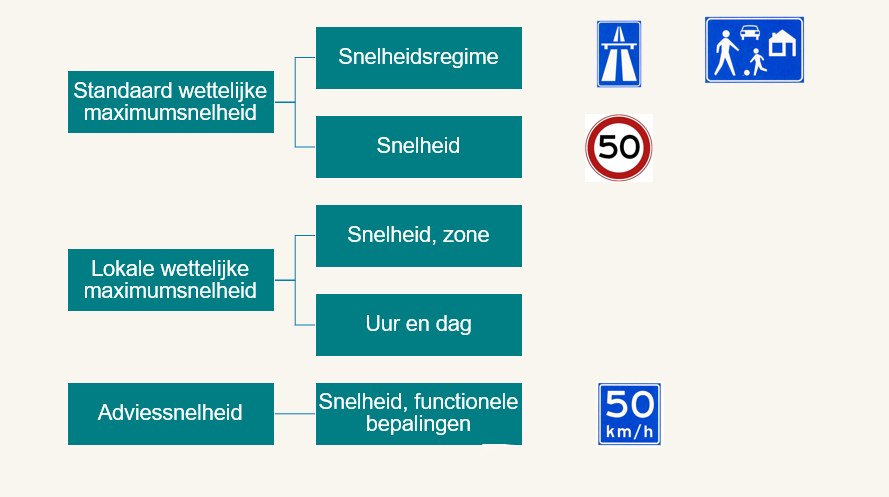
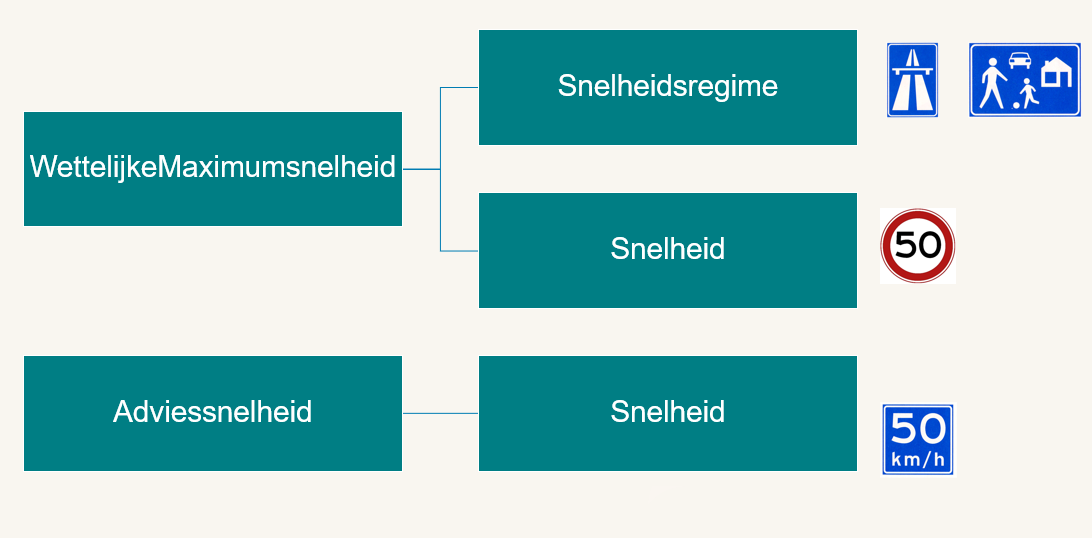
wip documentation

diff --git a/docs/howtodatamanagement/hoofdstukken/3.md b/docs/howtodatamanagement/hoofdstukken/3.md
@@ -2,23 +2,23 @@
 
 
 ## Inleiding
-De fysieke uiting van [=verkeersmaatregelen=] zijn de [=fysieke platen=] die de weggebruiker buiten aantreft. Op een plaat staan "iconen", in de vorm van [=verkeersborden=] en/of [=onderborden=] die elk een eigen waarde kunnen hebben. De [=verkeersborden=] zijn in het informatiemodel de afbeeldingen (InformatieObjecten) zoals bekend uit de [=RVV 1990=], daarom gebruiken we voor het concreet aan te raken object buiten de term Fysieke Plaat, ook al wordt dit in de volksmond ook het verkeersbord genoemd.
-De informatie-elementen uit het informatiemodel zijn zo opgebouwd, dat alle informatie over de inhoud van het bord die nodig is voor het bestellen van een nieuw bord kan worden afgeleid. 
+De fysieke uiting van [=verkeersmaatregelen=] zijn de [=fysieke platen=] die de weggebruiker buiten aantreft. Op deze platen staat informatie:
+* Meestal één, soms twee achtergrondschilden met kleuren volgens de [[NEN_3381_2020]]
+* Op dit schild een of meerdere "iconen", dit kunnen afbeeldingen zijn van verkeersborden uit de [=RVV 1990=], of andere pictorgrammen en teksten. Ook een flashlight is opgenomen als icoon, om het gehele bord goed te kunnen beschrijven en als het moet worden vervangen te kunnen bestellen bij een fabrikant. 
+
+In de volksmond wordt een fysieke plaat ook wel een verkeersbord genoemd. Er is bewust gekozen deze term niet te gebruiken, omdat ook een icoon in de [=RVV 1990=] als verkeersbord wordt aangeduid.
+Ook een [=onderbord=] geldt als een fysieke plaat. Dit is zo gekozen, dat de borden in de landelijke registratie overeenkomen met de door de wegbeheerder fysiek te onderhouden borden in een assetbeheersysteem.
 
 <figure>
 <img src="../images/fysiekeplaat.PNG"  style="width:100%; max-width:none;">
-<figcaption>De logica voor het vastleggen van de informatie op de fysieke plaat die de weggebruiker buiten aantreft</caption>
+<figcaption>Voorbeelden van fysieke platen met achtergrondschilden in zwart of wit, en iconen. Ook een los onderbord is een fysieke plaat in het informatiemodel.</caption>
 </figure>
 
 
-
-### Samenstellen fysieke plaat
-
-
-#### Rooster
-De positie van een icoon op de plaat wordt bepaald aan de hand van een code. Onderstaande afbeelding geeft de logica weer, waarbij uitgegaan is van maximale vrijheid om bestaande fysieke platen te registreren met meer dan één schild, hoewel dat in de praktijk niet aan te raden is, omdat verkeersdeelnemers de overvloed aan informatie niet goed kunnen verwerken.  
-* Een fysieke plaat kan een of meer schilden bevatten; nummering van boven naar beneden met cijfers, en van links naar rechts met letters uit het alfabet. Waarin onderstaande afbeelding "schildnummer" staat, staat in de dataset "positionnumber"
-* Een schild bevat vervolgens iconen; een icoon kan zowel een afbeelding van een verkeersbord zijn, of van een onderbord (afbeelding dan wel tekst). 
+### Rooster
+De positie van een icoon op de plaat wordt bepaald aan de hand van een code. Onderstaande afbeelding geeft de logica weer, waarbij uitgegaan is van maximale vrijheid om bestaande fysieke platen te registreren met meer dan één achtergrondschild, hoewel dat in de praktijk niet aan te raden is, omdat verkeersdeelnemers de overvloed aan informatie niet goed kunnen verwerken.  
+* Een fysieke plaat kan een of meer achtergrondschilden bevatten; nummering van boven naar beneden met cijfers, en van links naar rechts met letters uit het alfabet. Waarin onderstaande afbeelding "achtergrondschildnummer" staat, staat in de dataset "positionnumber"
+* Een achtergrondschild bevat vervolgens iconen; een icoon kan zowel een afbeelding van een verkeersbord zijn, of van een onderbord (afbeelding dan wel tekst). 
 
 <figure>
 <img src="../images/fysiekeplaatsamenstellen.png"  style="width:100%; max-width:none;">
@@ -27,14 +27,6 @@ De positie van een icoon op de plaat wordt bepaald aan de hand van een code. Ond
 
 Zie de [Gids voor Databaheerder](https://docs.crow.nl/verkeersborden/howtodatamanagement/#fysieke-platen-samenstellen) voor voorbeelden. 
 
-
-#### Schilden
-
-
-#### Iconen
-Op een plaat staan "iconen", in de vorm van [=verkeersborden=] en/of [=onderborden=] op basis van de [=RVV 1990=] die elk een eigen waarde kunnen hebben.
-
-Ook een flashlight is opgenomen als icoon, om het gehele bord goed te kunnen beschrijven en als het moet worden vervangen te kunnen bestellen bij een fabrikant.
 
 
 ## Geo-locatie fysieke plaat

diff --git a/docs/howtodatamanagement/hoofdstukken/6.md b/docs/howtodatamanagement/hoofdstukken/6.md
@@ -1,20 +1,42 @@
 # B-Voorrang 
 
+
+## Voorrangsinstelling
+
+In drie verschillende situaties kan men werken met de verkeersmaatregel Voorrangsinstelling:
+* De **Voorrangsweg**. Op een voorrangsweg gelden volgens de [=RVV 1990=] ook andere verkeersregels, waaronder dat men op een voorrangsweg buiten de bebouwde kom niet mag parkeren. Daarom moet een voorrangsweg anders worden aangeduid, dan de weg waarop men voorrang heeft bij een voorrangskruising. 
+* De **Voorrangskruising**
+* De **Wegversmalling**. Bij een wegversmalling kan één van de rijrichtingen voorrang krijgen op de andere rijrichting.
+
+Bij de Voorrangsinstelling worden de volgende aspecten altijd toegevoegd:
+* Voorrangsindicatie (VoorrangKrijgen, VoorrangGeven of StoppenVoorrangGeven)
+* Voorrangssituatie (Kruising of Tegenliggers)
+
+Bij de voorrangsinstelling in het geval van een voorrangskruispunt wordt ook het aspect TypeKruising toegevoegd, om onderscheid te kunnen maken tussen een tweezijdige kruising, een kruising van links en een kruising van rechts.
+
+
+### Voorrangsweg
+
+
 <figure>
-<img src="../images/verkeersmaatregelen-voorrrang.PNG"  style="width:100%; max-width:none;">
-<figcaption>De verkeersmaatregelen rondom voorrang</caption>
+<img src="../images/voorrangsweg.PNG"  style="width:100%; max-width:none;">
+<figcaption>De Voorrangsinstelling voor de voorrangsweg en de erop aansluitende ondergeschikte wegen. </caption>
 </figure>
 
 
-Om een voorrangskruispunt te kunnen modelleren zijn 3 verkeersmaatregelen nodig:
+### Voorrangskruispunt
 
-1. [Voorrangsinstelling](#voorrangsinstelling) (1) - om aan te duiden welke wegen voorrang hebben op de kruising of rijrichting.
-2. Waarschuwing met aspect [TypeKruising](#aspect-typekruising) - om het type kruising aan te duiden bij de voorrangsweg.
-3. [Voorrangsinstelling](#voorrangsinstelling) (2) - om aan te geven welke wegen ondergeschikt zijn op de kruising of rijrichting.
+<figure>
+<img src="../images/voorrangskruispunt.PNG"  style="width:100%; max-width:none;">
+<figcaption>De Voorrangsinstelling voor een voorrangskruispunt.</caption>
+</figure>
 
 
-## Voorrangsinstelling
-Bij de Voorrangsinstelling worden de volgende aspecten altijd toegevoegd:
 
-* Voorrangsindicatie (VoorrangKrijgen, VoorrangGeven of StoppenVoorrangGeven)
-* Voorrangssituatie (Kruising of Tegenliggers)
+### Wegversmalling
+<figure>
+<img src="../images/voorrangtegenliggers.PNG"  style="width:100%; max-width:none;">
+<figcaption>De Voorrangsinstelling voor een wegversmalling.</caption>
+</figure>
+
+

diff --git a/docs/technicaldocs/hoofdstukken/8.md b/docs/technicaldocs/hoofdstukken/8.md
@@ -1,12 +1,12 @@
 # licenties
 
- Dit hoofdstuk geeft een toelichting op de licenties.
+Dit hoofdstuk geeft een toelichting op de licenties.
 
 ## Informatiemodel
-Alle data in de gehele Verkeersborden Ontologie wordt uitgegeven onder de [CC BY 4.0](https://creativecommons.org/licenses/by/4.0/deed.nl)  licentie.
+Alle data in de gehele Verkeersborden Ontologie wordt uitgegeven onder de [CC0](https://creativecommons.org/publicdomain/zero/1.0/) licentie voor het publieke domein.
 
 ### Downloads informatiemodel
-De linked data bestanden van het informatiemodel worden uitgegeven onder de [ODC BY](https://opendatacommons.org/licenses/by/summary/) licentie.
+De linked data bestanden van het informatiemodel worden uitgegeven onder de [CC0](https://creativecommons.org/publicdomain/zero/1.0/) licentie.
 
 
 ## Documentatie
@@ -16,17 +16,15 @@ Alle documentatie wordt uitgegeven onder de [CC BY 4.0](https://creativecommons.
 De (voorbeeld) query's worden uitgegeven onder de [MIT](https://opensource.org/licenses/MIT) licentie.
 
 ## Voorbeeld- en testdatasets
-?
+Alle voorbeeld en test-dataset worden uitgegeven onder [ODC BY](https://opendatacommons.org/licenses/by/1-0/)
 
 
 ## Controlebestanden
-SHACL om dataset te controleren?
+De controlebestanden in SHACL om dataset te controleren worden uitgegeven onder de [CC0](https://creativecommons.org/publicdomain/zero/1.0/) licentie. 
 
-## randsoftware
-De randsoftware (zoals de viewer) wordt uitgegeven onder de [MIT](https://opensource.org/licenses/MIT) licentie.
 
- ## Afbeeldingen verkeersborden
- De afbeeldingen van verkeersborden in .svg formaat in de folder "images" zijn beschikbaar als public domain afbeeldingen.
-
+## Afbeeldingen verkeersborden
+De afbeeldingen van verkeersborden in .svg formaat in de folder "images" worden uitgegeven als onder de [CC0](https://creativecommons.org/publicdomain/zero/1.0/) licentie voor het publieke domein.
+Afbeeldingen van andere organisaties worden in het informatiemodel gelabeled met de correcte licentie. 
 
 

diff --git a/docs/technicaldocs/hoofdstukken/3.md b/docs/technicaldocs/hoofdstukken/3.md
@@ -28,7 +28,7 @@ Er heerst een enorme spraakverwarring omtrend het woord verkeersbord. Daarom is 
 
 <ol><li>Fysieke verkeersborden, aangeduid als "Fysieke Platen". Dit zijn de platen van metaal, plastic of composiet die men buiten kan vinden. Dit zijn in NEN 2660-2 terminologie FysiekeObjecten. Op de FysiekePlaten staat informatie:
 <ol><li>Iconen, de symbolen van verkeersborden zoals die in de [=RVV 1990=] gevonden kunnen worden, en daarnaast teksten die in de wet bekend zijn als "onderborden". Dit zijn in NEN 2660-2 terminologie InformatieObjecten.
-<li>Schilden (meestal 1), de achtergrondkleur van verkeersborden met een extra kader indien er meerdere iconen op de FysiekePlaat staan. Dit zijn in NEN 2660-2 terminologie InformatieObjecten, omdat de schildkleur ook informatie in zich bevat (een geel schild betekent bijvoorbeeld een tijdelijke situatie).
+<li>Schilden (meestal 1), de achtergrondkleur van verkeersborden met een extra kader indien er meerdere iconen op de FysiekePlaat staan. Dit zijn in NEN 2660-2 terminologie InformatieObjecten, omdat de schildkleur ook informatie in zich bevat (een geel schild betekent bijvoorbeeld een tijdelijke situatie).</ol></ol>
 
 Omdat de volgorde van informatie uitmaakt voor de fysieke wereld wordt daarnaast gebruik gemaakt van een codering voor de positie van de schilden en iconen op een fysieke plaat. 
 
@@ -45,6 +45,12 @@ De verkeersmaatregelen zijn in NEN 2660-2 terminologie InformatieObjecten. Deze 
 
 
 ### Netwerklocatie
+
+### Afbeedlingen
+In de publicatie zitten links naar afbeeldingen. Afbeeldingen waarvoor een licentie geldt, krijgen deze mee. 
+
+* [NDW afbeeldingen van verkeersborden](https://github.com/ndwnu/qgis-verkeersborden-style)
+krijgen dcterms:license https://opensource.org/licenses/MIT .
 
 
 

diff --git a/docs/howtodatamanagement/hoofdstukken/4.md b/docs/howtodatamanagement/hoofdstukken/4.md
@@ -32,20 +32,8 @@ Het Aspect heet "VanToepassingOpVoertuigtype". Daarbij geldt, dat als een verkee
 ### Zone
 De [=verkeersmaatregel=] kan gelden voor een gehele zone. Uit welke wegvakken deze zone bestaat, kan worden gevonden via de locatie-relatie van de [=verkeersmaatregel=] met de NWB-wegvakken.
 
-Voor de zones geldt een lijst met het type: schoolzone, parkeerzone, snelheidszone.
+Voor de zones geldt een lijst met het type: schoolzone, parkeerzone, snelheidszone, milieuzone.
 
 
-
-## Functionele bepalingen
-Functionele bepalingenn zijn aspecten die de inhoud en reikwijdte van de verkeersmaatregel nader specificeren en bepalen welke acties of gedragingen zijn toegestaan, verboden, of verplicht in een bepaalde context. Voorbeelden:
-
-
-| Aspect   | Toelichting aspect   | Verkeersmaatregel  |
-|-----------|-----------|-----------|
-| [Snelheidsregime](#aspect-snelheidsregime)  |   Autosnelweg,snelweg,binnen de kom, buiten de kom, erf    |    WettelijkeMaximumsnelheid     |
-| [MaximumSnelheid](#aspect-maximumsnelheid)  | Maximumsnelheid voor alle voertuigen in km/h |  WettelijkeMaximumsnelheid, Adviessnelheid   |
-| Voorrangsindicatie  | VoorrangKrijgen, VoorrangGeven of StoppenVoorrangGeven  |   [Voorrangsinstelling](#voorrangsinstelling)     |
-| Voorrangssituatie  |  Kruising of Tegenliggers  |   [Voorrangsinstelling](#voorrangsinstelling)     |
-| OpenofGesloten   |   OpenVoor, GeslotenVoor    |  OpenOfGeslotenverklaring   |
-
-
+### BijzondereTijdsvoorwaarden
+Drie veel voorkomende voorwaarden bij verkeersborden zijn de beperkingen rondom zonsopkomst en zonsondergang of vice versa, en de aanduiding bij schemer en duisternis. Deze zijn in een eigen aspect gevat.

diff --git a/docs/technicaldocs/hoofdstukken/2.md b/docs/technicaldocs/hoofdstukken/2.md
@@ -3,23 +3,27 @@
 
 
 
-### Modellen
+## Modellen
 <div class="issue" data-number="190"></div>
 
 
 #### Model van Begrippen
-<div class="issue" data-number="191"></div>
+Bij het informatiemodel verkeersborden wordt een Model van Begrippen gepubliceerd.
+Het model van begrippen is in deze context gelijk aan een 'vocabulaire' ofwel een woordenboek met termen en definities.  Dit is gebaseerd op [[SKOS]]. Zowel het MIM als de NEN2660-2 bevelen dit aan. 
 
-
-
-Bij het informatiemodel verkeersborden wordt een vocabulaire gepubliceerd, een woordenboek met termen en definities in het SKOS-model met de volgende onderdelen:
+De volgende onderdelen uit SKOS worden gebruikt:
 
 * Term ([skos:Concept](https://www.w3.org/2004/02/skos/core#Concept)): Een term die verwijst naar een begrip in de thesaurus.
-* Definitie ([skos:definition](https://www.w3.org/2004/02/skos/core#definition)): De definitie of beschrijving van de term.
+* Voorkeursterm ([skos:preflabel](https://www.w3.org/2004/02/skos/core#prefLabel)), in het Engels en Nederlands
+* Definitie ([skos:definition](https://www.w3.org/2004/02/skos/core#definition)): De definitie of beschrijving van de term, in het Engels en Nederlands.
+
 
 ##### Bronnen van definities
 
-Indien een definitie is overgenomen uit de [=RVV 1990=] of andere bron, wordt dit opgenomen in de tekst van de definitie ("Bron: RVV 1990, paragraaf 1") met daarbij een link naar de bron.
+Indien een definitie is overgenomen uit de [=RVV 1990=] of andere bron, wordt dit opgenomen in de tekst van de definitie ("Bron: RVV 1990, paragraaf 1") met daarbij een link naar de bron:
+
+
+
 
 
 #### Conceptueel Informatiemodel

diff --git a/docs/framework/hoofdstukken/raakvlakanalyse-standaarden.md b/docs/framework/hoofdstukken/raakvlakanalyse-standaarden.md
@@ -39,6 +39,11 @@ Het Metamodel Informatie Modellering (MIM) is een gemeenschappelijk vertrekpunt 
 ### Ontology alignment
 Voor het op elkaar afstemmen van informatiemodellen, "ontology alignment" is nog geen formele specificatie beschikbaar. Tot hier op nationaal of internationaal niveau overeenstemming over is gaan we uit van de uitgangspunten die hierover beschreven staan in het [[whitepaper_ontology_alignment]]. Dit geldt alleen voor modellen op basis van de NEN 2660; voor een niet in linked data opgesteld model zoals worden gewoon concepten en attributen hard-copy overgenomen in het informatiemodel. 
 
+### Ontbreekt: netwerken
+Er is nog geen standaard die beschrijft, hoe verkeerskundige netwerken in samenhang kunnen worden gemodelleerd en beschreven. Diverse standaarden, waaronder [=INSPIRE=] en de [[NEN_2660_2_2022]] beschrijven delen. In [deze studie](https://www.linkedin.com/pulse/informatiemodellering-van-transportnetwerken-hein-corstens-8a17e/?trackingId=CmyreN11RMiTEWTTkDKrEg%3D%3D) uitgevoerd voor Rijkswaterstaat, afdeling vaarwegen staat een potentiële uitwerking. 
+
+Indien hier in de toekomst meer op wordt gestandaardiseerd, kan dit leiden tot wijzigingen in het informatiemodel. 
+
 
 ## Domeinstandaarden
 Er bestaan verschillende andere domeinstandaarden of informatiemodellen die wegkenmerken of verkeersborden beschrijven. Dat zijn raakvlakken of juist ijkingsbronnen om het [=Informatiemodel Verkeerstekens=] beter vorm te geven.

diff --git a/docs/howtodatamanagement/hoofdstukken/7.md b/docs/howtodatamanagement/hoofdstukken/7.md
@@ -68,3 +68,6 @@ Milieuzones zijn uit te drukken met de GeslotenOfOpenverklaring; bij een milieuz
 Aanwijzingen voor het gebruik van de spitsstrook zijn ook uit te drukken als GeslotenOfOpenverklaring. De spitsstrook kan worden meegegaangeduid met de rijstrooknummering in de netwerklocatie van de verkeersmaatregel.
 
 Bij de aanduiding dat men moet invoegen op de spitsstrook wordt gebruik gemaakt van de verkeersmaatregel [VerplichteRijrichting](verplichte-rijrichting) met het aspect ToegestaneRijrichting, met waarde Linksaf.
+
+### Fietsstrook
+Indien een fietsstrook aanwezig is op de rijbaan, gelden speciale verkeersregels, waaronder dat men niet mag stilstaan langs de fietsstrook. Daarom moet een fietsstrook in de dataset van de wegbeheerder zijn opgenomen met de verkeersmaatregel OpenOfGesloten, voor fietsers, en de fietsstrook als [strook](#strook) met een nummer aangeduid worden bij de [netwerklocatie](#netwerklocatie-verkeersmaatregel) van deze verkeersmaatregel. 

diff --git a/docs/howtodatamanagement/hoofdstukken/1.md b/docs/howtodatamanagement/hoofdstukken/1.md
@@ -22,7 +22,7 @@ Het model werkt op basis van de volgende logica:
 
 3. De verkeersmaatregel geldt op een bepaalde [netwerklocatie](#netwerklocatie-verkeersmaatregel) in het [=verkeerskundige wegennetwerk=]. 
 
-4. De [=verkeersmaatregel=] kan zich uiten in één of meerdere [fysieke platen](#fysieke-plaat) die buiten geplaatst zijn, met daarop een of meer schilden met een kleur en daarbinnen weer iconen (afbeeldingen van borden en onderborden) of teksten.  
+4. De [=verkeersmaatregel=] kan zich uiten in één of meerdere [fysieke platen](#fysieke-plaat) die buiten geplaatst zijn, met daarop een of meer achtergrondschilden met een kleur en daarbinnen weer iconen (afbeeldingen van borden en onderborden) of teksten.  
 
 Van het informatiemodel is ook een [schema](https://github.com/Stichting-CROW/verkeersborden/tree/main/docs/InformationModelVerkeersborden_schema) beschikbaar waarin de gebruikte semantische relaties te zien zijn.
 

diff --git a/docs/howtodatamanagement/hoofdstukken/10.md b/docs/howtodatamanagement/hoofdstukken/10.md
@@ -84,7 +84,7 @@ Voorrang verlenen aan tegenliggers is een variant van de verkeersmaatregelen ron
             <td class="right-column">
                 Een passeerbaan wordt als volgt geïnterpreteerd: het is een netwerklocatie bestemd voor deze specifieke voertuigtypen: landbouw- en bosbouwtrekkers, 
                 motorrijtuigen met beperkte snelheid en mobiele machines. Dit wordt aangegeven met het aspect 
-                <a href="#voertuigtypen">VanToepassingOpVoertuigtype</a>. Daarbij wordt met het aspect "VerplichtGebruikWeg" met waarde "GebruikVoorPasseren" aangeduid dat de weg MOET worden gebruikt als voertuigen passeren. 
+                <a href="#voertuigtypen">VanToepassingOpVoertuigtype</a>. Daarbij wordt met het aspect "VerplichtGebruikWeg" met waarde "VerplichtGebruik" aangeduid dat de weg MOET worden gebruikt, vergelijkbaar met het verplichte fietspad. 
             </td>
         </tr>
     </table>

diff --git a/docs/howtodatamanagement/hoofdstukken/9.md b/docs/howtodatamanagement/hoofdstukken/9.md
@@ -30,10 +30,13 @@ Merk op, dat parkeervakken nog geen onderdeel zijn van het wegenbestand. Zolang 
 
 <figure style="float: left; margin: 0 15px 15px 0; width: 150px">
 <img src="../images/verbodopstilstaan.PNG" alt="Bord verbod op stilstaan">
-<figcaption>Het bord verbod op stilstaan</figcaption>
+<figcaption>Het bord E2 verbod op stilstaan</figcaption>
 </figure>
 
 
 Bij een verbod op stilstaan worden de volgende aspect standaard toegevoegd:
 * Parkeerindicatie (Nee)
 * StilstaanIndicatie (Nee)
+
+### Inrit/uitrit/doorgang vrijlaten
+Het vrijlaten van een doorgang, uitrit of inrit kan gezien worden als een VerbodOpStilstaan, waarbij geen bord E2 wordt gebruikt. Vaak staat op deze locaties wel een bord met een tekst erop "uitrit vrijlaten". Deze kan als FysiekePlaat met een vrije tekst in de dataset worden opgenomen.

diff --git a/docs/howtodatamanagement/hoofdstukken/5.md b/docs/howtodatamanagement/hoofdstukken/5.md
@@ -94,7 +94,7 @@ Bij de [=adviessnelheid=] worden de volgende aspecten altijd toegevoegd:
 * [MaximumSnelheid](#aspect-maximumsnelheid) 
 
 Bij de [=adviessnelheid=] worden de volgende aspecten vaak toegevoegd:
-* [Zone](#zone)
-* BijSchemerEnDuisternis
+* [Zone](#zone), snelheidszone, schoolzone
+* [BijzondereTijdsvoorwaarden](BijzondereTijdsvoorwaarden), Bij schemer en duisternis
 
 
